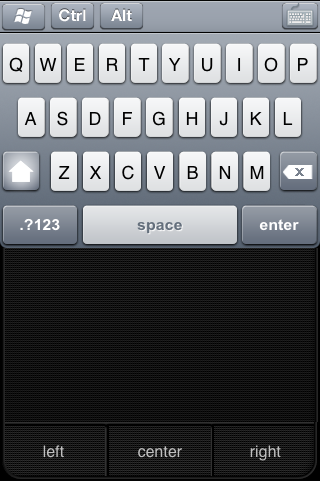
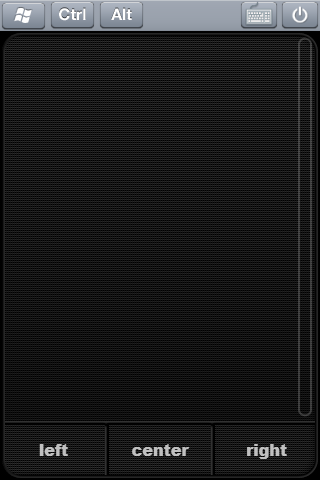
Added vertical scroll function, letters with accents, replaced non-functioning symbol keys.
Split code in two files.

diff --git a/Assets/MouseGestures-v1.1.js b/Assets/MouseGestures-v1.1.js
@@ -1,0 +1,48 @@
+function onMouse(horizontalSpeed, verticalSpeed){
+			
+			//scales down iViewer gesture velocity
+			var x = Math.abs(horizontalSpeed/16)	
+			var y = Math.abs(verticalSpeed/16)
+			
+			//calculates mouse speed
+			var xSpeed = (horizontalSpeed >= 0) ? (Math.round(x - (32 * Math.sin(x)*(Math.PI/128)))) : (255 - (Math.round(x - (32 * Math.sin(x)*(Math.PI/128)))))
+			var ySpeed = (verticalSpeed >= 0) ? (Math.round(y - (32 * Math.sin(y)*(Math.PI/128)))) : (255 - (Math.round(y - (32 * Math.sin(y)*(Math.PI/128)))))
+			
+			//determine movement directions
+			var xDirection = (horizontalSpeed >= 0) ? "\x00\x00\x00" : "\xFF\xFF\xFF"
+			var yDirection = (verticalSpeed >= 0) ? "\x00\x00\x00" : "\xFF\xFF\xFF"
+			
+			//sends both axis movement message
+			CF.send("mouseUDP",
+				"\x00\x00\x00\x06" + //horizontal movement command
+				xDirection +
+				String.fromCharCode(xSpeed) + 
+				"\x00\x00\x00\x00\x00\x00\x00\x00"
+				)
+			CF.send("mouseUDP",
+				"\x00\x00\x00\x07" + //vertical movement command
+				yDirection +
+				String.fromCharCode(ySpeed) + 
+				"\x00\x00\x00\x00\x00\x00\x00\x00"
+				)
+}
+
+function onVerticalScroll(verticalSpeed){
+			
+			//scales down iViewer gesture velocity
+			var y = Math.abs(verticalSpeed/16)
+			
+			//calculates mouse speed
+			var ySpeed = (verticalSpeed >= 0) ? (Math.round(y)) : (255 - (Math.round(y)))
+			
+			//determine movement directions
+			var yDirection = (verticalSpeed >= 0) ? "\x00\x00\x00" : "\xFF\xFF\xFF"
+			
+			//sends both axis movement message
+			CF.send("mouseUDP",
+				"\x00\x00\x00\x0a" + //vertical movement command
+				yDirection +
+				String.fromCharCode(ySpeed) + 
+				"\x00\x00\x00\x00\x00\x00\x00\x00"
+				)
+}

diff --git a/Assets/logitechTouchMouse-Connections-v1.0.js b/Assets/logitechTouchMouse-Connections-v1.0.js
@@ -1,32 +1,3 @@
-function onMouse(horizontalSpeed, verticalSpeed){
-			
-			//scales down iViewer gesture velocity
-			var x = Math.abs(horizontalSpeed/16)	
-			var y = Math.abs(verticalSpeed/16)
-			
-			//calculates mouse speed
-			var xSpeed = (horizontalSpeed >= 0) ? (Math.round(x - (32 * Math.sin(x)*(Math.PI/128)))) : (255 - (Math.round(x - (32 * Math.sin(x)*(Math.PI/128)))))
-			var ySpeed = (verticalSpeed >= 0) ? (Math.round(y - (32 * Math.sin(y)*(Math.PI/128)))) : (255 - (Math.round(y - (32 * Math.sin(y)*(Math.PI/128)))))
-			
-			//determine movement directions
-			var xDirection = (horizontalSpeed >= 0) ? "\x00\x00\x00" : "\xFF\xFF\xFF"
-			var yDirection = (verticalSpeed >= 0) ? "\x00\x00\x00" : "\xFF\xFF\xFF"
-			
-			//sends both axis movement message
-			CF.send("mouseUDP",
-				"\x00\x00\x00\x06" + //horizontal movement command
-				xDirection +
-				String.fromCharCode(xSpeed) + 
-				"\x00\x00\x00\x00\x00\x00\x00\x00"
-				)
-			CF.send("mouseUDP",
-				"\x00\x00\x00\x07" + //vertical movement command
-				yDirection +
-				String.fromCharCode(ySpeed) + 
-				"\x00\x00\x00\x00\x00\x00\x00\x00"
-				)
-}
-
 function disconnect(){
 	CF.runMacro("HideAll")
 	CF.runMacro("ReleaseModifiers")
@@ -37,7 +8,6 @@ function disconnect(){
 			enabled: false,
 			address: "0.0.0.0"})
 			}
-
 
 function onServerSelection(join, value, token){
 	var ip = mouseServerInstances[/l1:(.+):d10/.exec(join)[1]].addresses[0]
